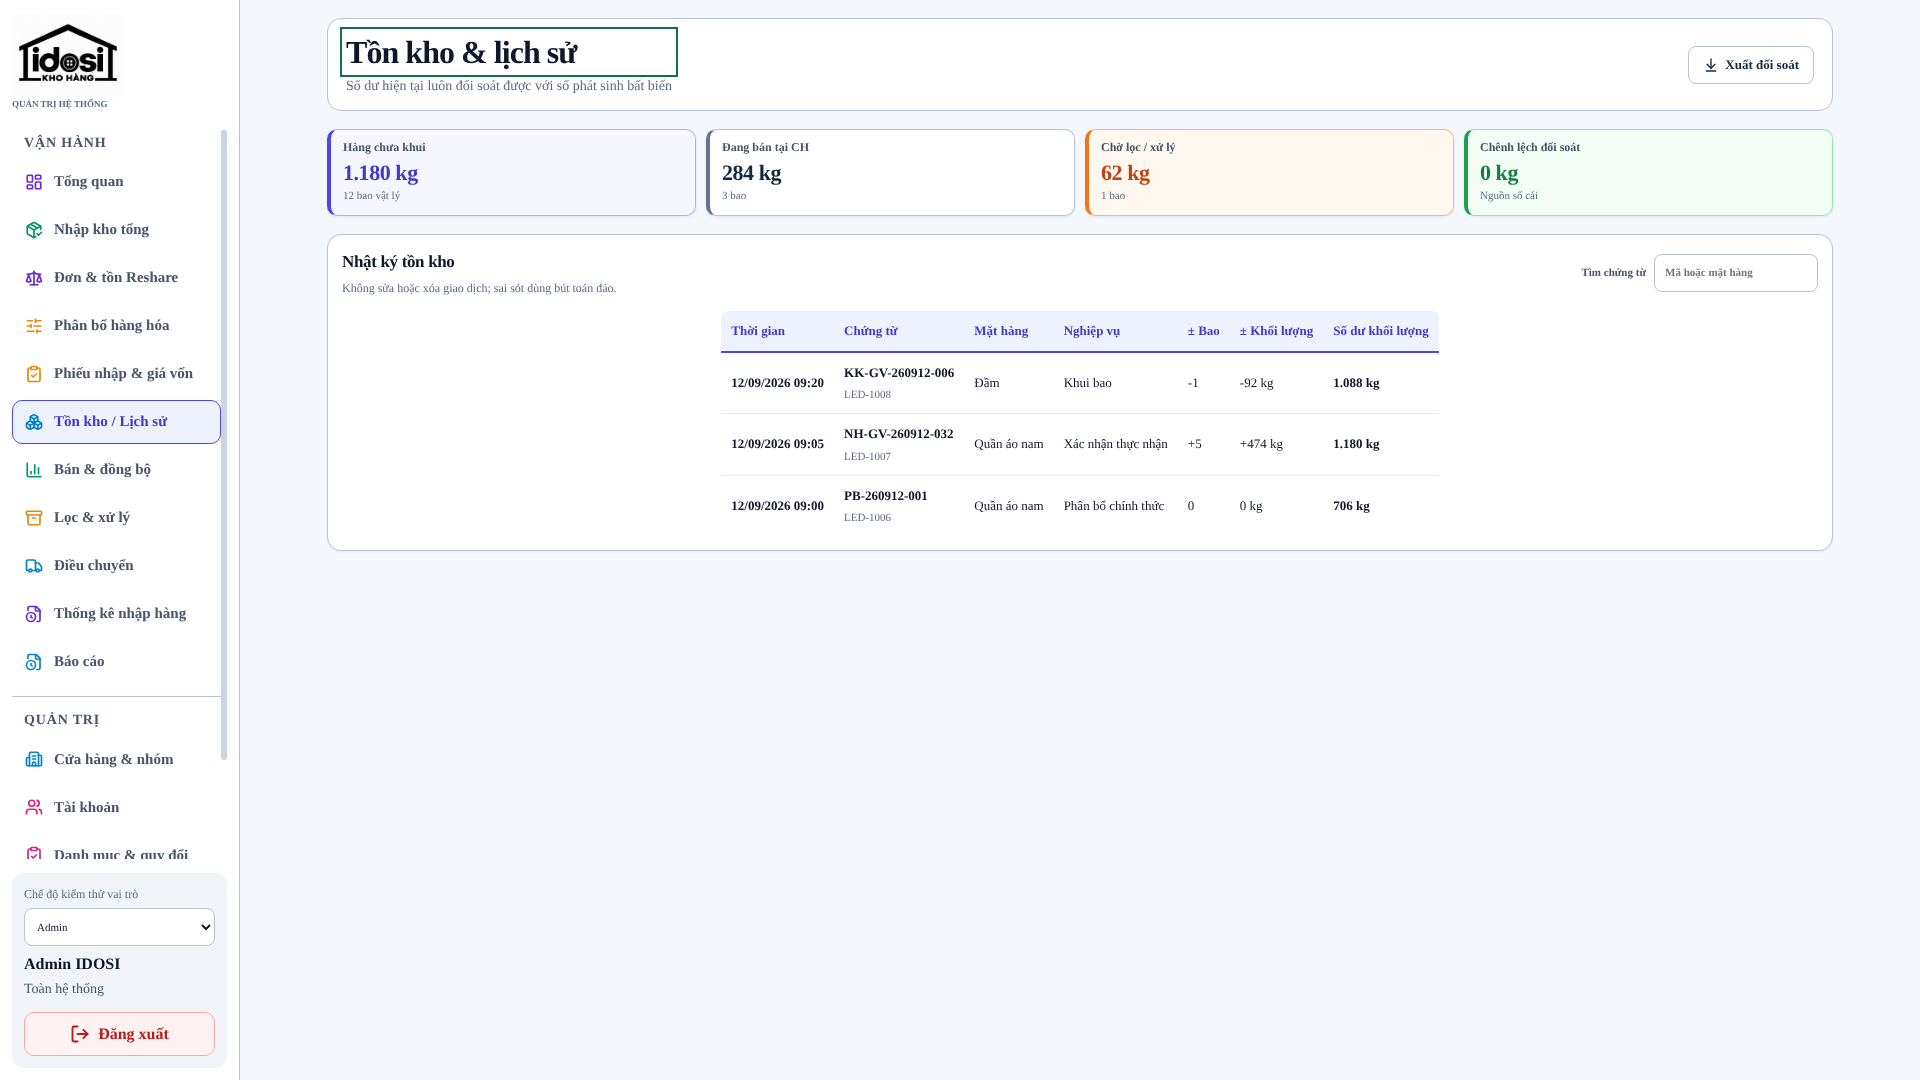
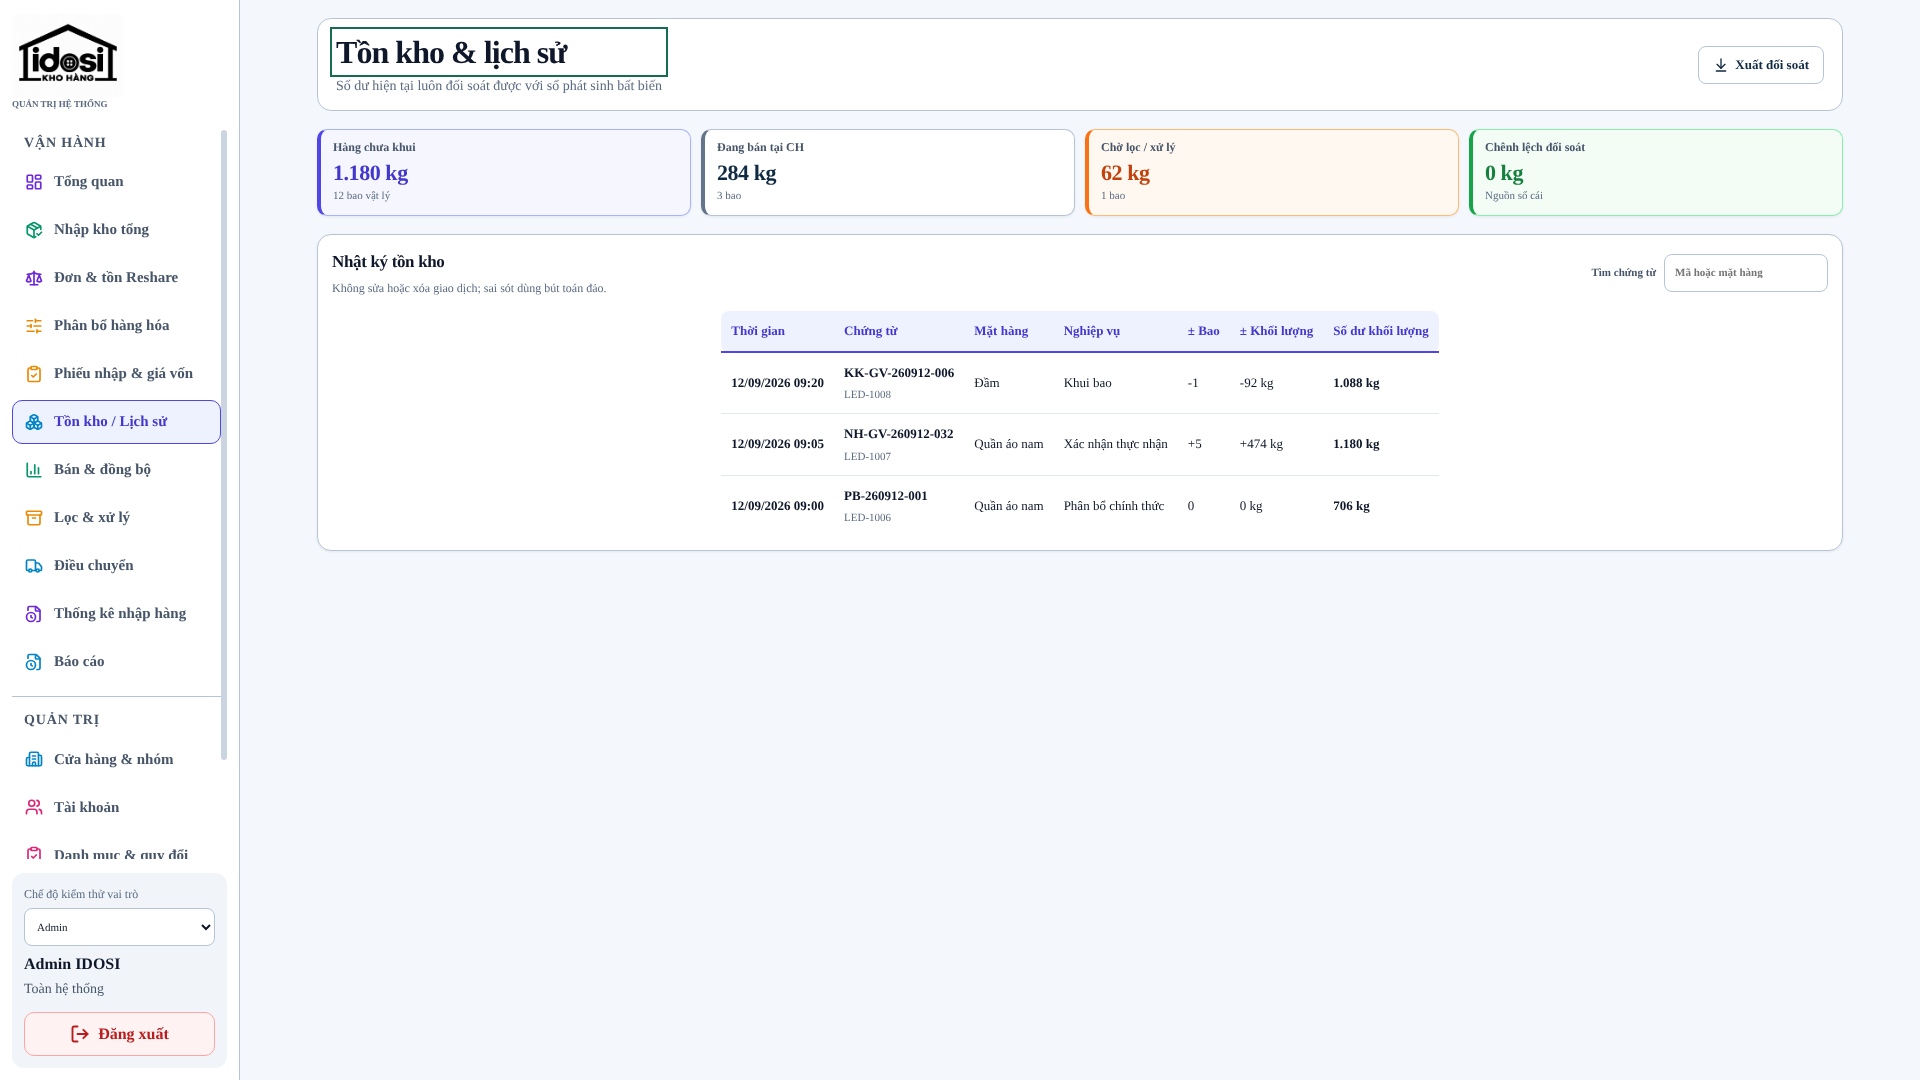
docs(ui): document unsqueezed tables with catalog before/after
Claude-Session: https://claude.ai/code/session_01VKdLgArj9jr58o2qQjiM7W

diff --git a/docs/desktop-wide-gutters.md b/docs/desktop-wide-gutters.md
@@ -8,7 +8,7 @@ hệ thống dùng một khung `.app-main` và một sidebar.
 
 | #   | Yêu cầu                                         | Trước                                                   | Sau                                                                                         |
 | --- | ----------------------------------------------- | ------------------------------------------------------- | ------------------------------------------------------------------------------------------- |
-| 1   | Lề trái/phải vùng làm việc gấp 3 lần hiện tại   | 54px mỗi bên                                            | 162px (3×) từ 2070px; không đủ chỗ thì 108px (2×); hẹp hơn nữa lề vừa đủ để bảng không chật |
+| 1   | Lề trái/phải vùng làm việc gấp 3 lần hiện tại   | 54px mỗi bên                                            | 162px (3×) từ 2090px; không đủ chỗ thì 108px (2×); hẹp hơn nữa lề vừa đủ để bảng không chật |
 | 2   | Bảng không xuống dòng, không tràn, không che    | —                                                       | audit 450 route × vai trò × độ rộng: không ô nào xuống dòng thêm, không cuộn/tràn mới       |
 | 3   | Thanh cuộn danh mục chính mảnh lại              | thanh cuộn cổ điển 15–17px có nút mũi tên (Chrome/Edge) | 6px, bo tròn, không nút mũi tên; Firefox `scrollbar-width: thin`                            |
 | 4   | Hộp danh mục chính lớn hơn một chút             | sidebar 224px, nhãn dài xuống 2 dòng                    | sidebar 240px; "Phiếu nhập & giá vốn", "Thống kê nhập hàng" nằm một dòng                    |
@@ -19,15 +19,15 @@ hệ thống dùng một khung `.app-main` và một sidebar.
 
 Nguyên tắc: bảng không xuống dòng thêm, không tràn. Lề chọn theo bậc:
 
-1. **Gấp 3** lề cũ (162px) khi vùng làm việc vẫn còn đủ 1506px — từ 2070px
-   (`@media (min-width: 2070px)`; 2070 = sidebar 240 + 1506 + 2 × 162).
-2. Không đủ thì tối đa **gấp 2** (108px), chỉ khi bảng vẫn vừa — từ 1962px.
-3. Hẹp hơn: lề lớn nhất mà bảng vẫn vừa, `min((100vw − sidebar − 1506px) / 2, 108px)`, không
+1. **Gấp 3** lề cũ (162px) khi vùng làm việc vẫn còn đủ 1526px — từ 2090px
+   (`@media (min-width: 2090px)`; 2090 = sidebar 240 + 1526 + 2 × 162).
+2. Không đủ thì tối đa **gấp 2** (108px), chỉ khi bảng vẫn vừa — từ 1982px.
+3. Hẹp hơn: lề lớn nhất mà bảng vẫn vừa, `min((100vw − sidebar − 1526px) / 2, 108px)`, không
    nhỏ hơn lề nền `clamp(18px, 10px + (100vw − 821px) × 0.0785, 46px)` = lề cũ trừ 8px (nửa phần
-   sidebar rộng thêm), nên tới 1838px vùng làm việc đúng bằng bản trước.
+   sidebar rộng thêm), nên tới 1858px vùng làm việc đúng bằng bản trước.
 
-1506px là bề rộng tự nhiên (không xuống dòng) của bảng rộng nhất — lịch sử nhập kho tổng — cộng
-viền panel, đo trên mọi route × vai trò.
+1526px là bề rộng tự nhiên (không xuống dòng) của bảng rộng nhất — lịch sử nhập kho tổng — cộng
+viền panel và 15px thanh cuộn dọc cổ điển của Windows (nằm trong `100vw`), đo trên mọi route × vai trò.
 
 Phương án đã loại (đều đo bằng audit bên dưới):
 
@@ -40,7 +40,7 @@ Phương án đã loại (đều đo bằng audit bên dưới):
 | -------- | ---------------------- | ------------------------- |
 | 1366     | 54 → 46px              | 1034 → 1034px             |
 | 1440     | 54 → 46px              | 1108 → 1108px             |
-| 1920     | 54 → 87px              | 1588 → 1506px             |
+| 1920     | 54 → 77px              | 1588 → 1526px             |
 | 2000     | 54 → 108px (2×)        | 1668 → 1544px             |
 | 2133     | 54 → 162px (3×)        | 1801 → 1569px             |
 | 2560     | 54 → 162px             | 2228 → 1996px             |
